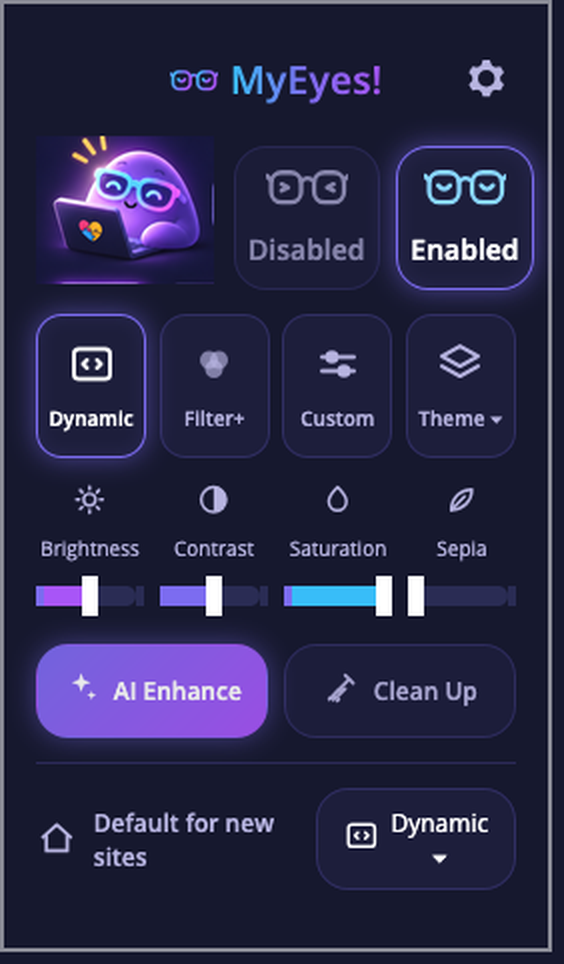
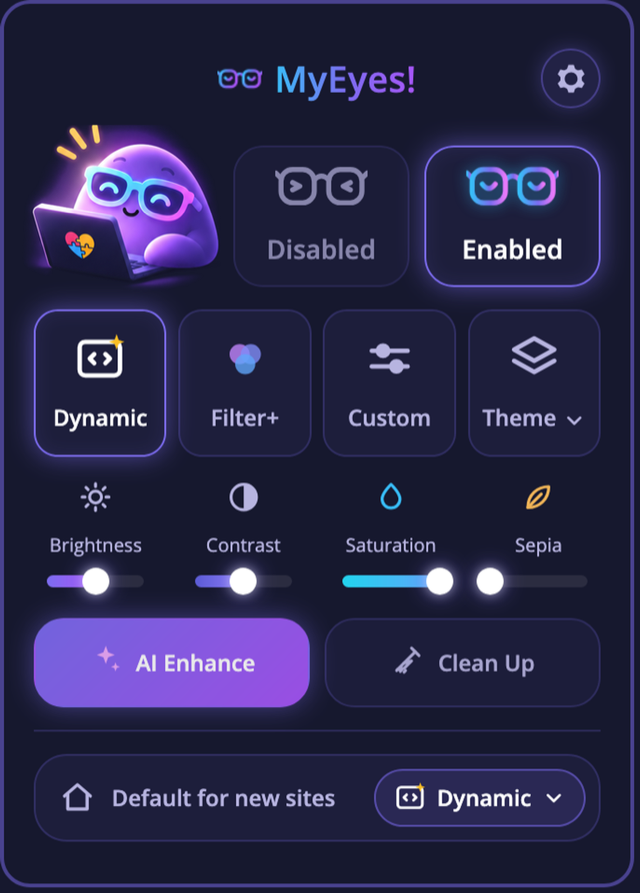
Popup visual finishing: mascot cutout, slider knobs, glass footer
Finishing pass toward brand/reference/popup-mockup.png (code landed via the
auto-commit hook in 26cbd6f5 / 6f539a7c; this commit wraps it up):
- tools/cut_mascot.py: reproducible mascot cutout from the mockup — border-
  connected background keyed out with a soft alpha ramp (glow fades instead of
  a hard box), laptop lid protected by an inset polygon so it stays opaque
- popup widened 15rem -> 19rem (mockup proportions; no more wrapped labels)
- sliders: chunky rounded tracks with gradient fills, round glowing knobs,
  knobs inset so 0%/100% stay inside their own column
- gradient + glow on the Enabled glasses, yellow sparkle on Dynamic, colored
  Filter+ circles, pink AI sparkles, chevron icons instead of the "▾" glyph
- footer as a single-line glass bar; gear in a round glass button; purple
  rounded frame
- drop the unused GearIcon; untrack a committed __pycache__ .pyc and ignore
  Python caches; refresh brand/screenshots/popup.png

diff --git a/src/ui/popup/main-page/icons.tsx b/src/ui/popup/main-page/icons.tsx
@@ -77,11 +77,6 @@ export const BroomIcon = () => svg([
     <path d="M4.5 19.5l1-1M7 20l1-1M9.5 20.5l1-1" />,
 ]);
 
-export const GearIcon = () => svg([
-    <circle cx="12" cy="12" r="3.2" />,
-    <path d="M12 2.5v3M12 18.5v3M2.5 12h3M18.5 12h3M5.1 5.1l2.1 2.1M16.8 16.8l2.1 2.1M18.9 5.1l-2.1 2.1M7.2 16.8l-2.1 2.1" />,
-]);
-
 // Happy glasses (enabled) — smiling eyes, brand blue->purple->pink gradient.
 export const GlassesHappy = () => (
     <svg viewBox="0 0 128 72" fill="none" stroke="url(#me-glasses-grad)" stroke-width="7" stroke-linecap="round" stroke-linejoin="round">
